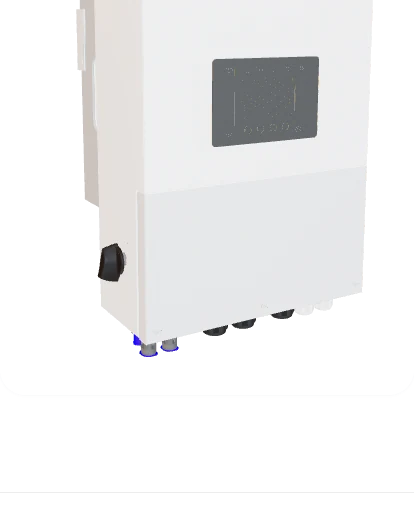
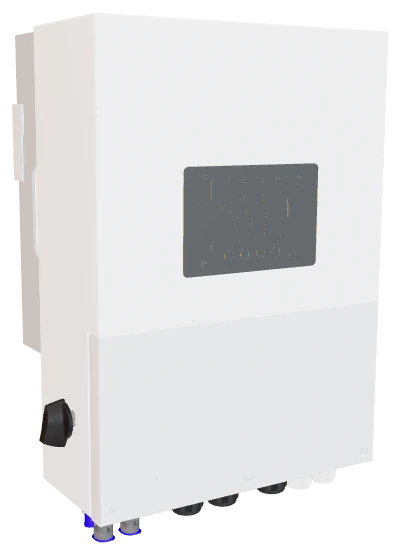
fix(images): fix top-edge clipping on inverter 3D WebP preview renders and apply padding cleanly inside LazyProduct3DViewer

diff --git a/website/src/components/products/LazyProduct3DViewer.tsx b/website/src/components/products/LazyProduct3DViewer.tsx
@@ -70,14 +70,16 @@ export function LazyProduct3DViewer({
       )}
       style={{ height: typeof height === "number" ? `${height}px` : height }}
     >
-      <div className={cn("relative size-full", compactTrigger ? "p-1" : "p-4 sm:p-6")}>
-        <Image
-          src={posterSrc}
-          alt={`${props.name}${props.modelNumber ? ` (${props.modelNumber})` : ""} 3D CAD hardware view`}
-          fill
-          sizes={compactTrigger ? "96px" : "(min-width: 1024px) 360px, 90vw"}
-          className="object-contain transition-transform duration-500 ease-out group-hover:scale-[1.03]"
-        />
+      <div className={cn("size-full flex items-center justify-center", compactTrigger ? "p-1" : "p-4 sm:p-5")}>
+        <div className="relative size-full">
+          <Image
+            src={posterSrc}
+            alt={`${props.name}${props.modelNumber ? ` (${props.modelNumber})` : ""} 3D CAD hardware view`}
+            fill
+            sizes={compactTrigger ? "96px" : "(min-width: 1024px) 360px, 90vw"}
+            className="object-contain transition-transform duration-500 ease-out group-hover:scale-[1.03]"
+          />
+        </div>
       </div>
 
       {compactTrigger ? (
